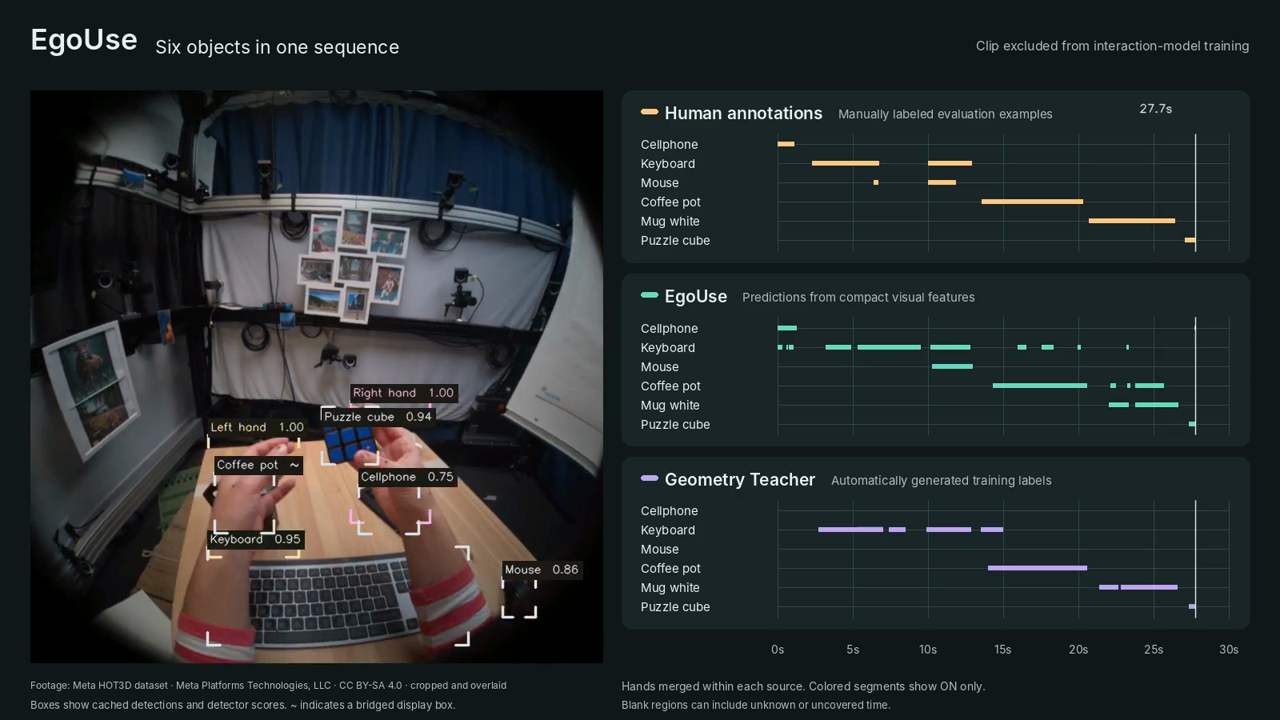
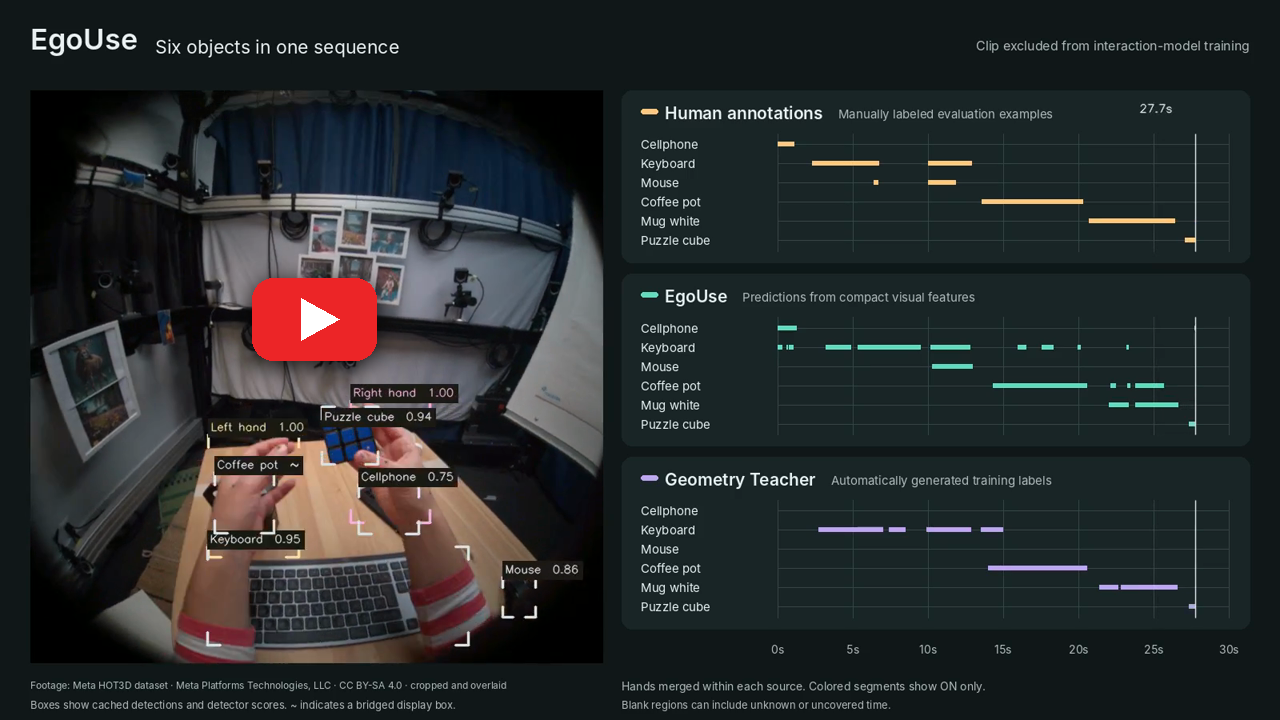
Refine README diagrams and demo thumbnail layout

Changed region(s): [[0.1875, 0.3667, 0.3125, 0.5194]]

diff --git a/README.md b/README.md
@@ -4,6 +4,8 @@
 
 EgoUse explores a lightweight approach to interaction recognition for future glasses and edge devices. Instead of applying another large visual network to video, it learns from **compact hand–object features using a small GRU**.
 
+**[Watch the EgoUse demo on YouTube](https://youtu.be/pmYqrhCUR8c)**
+
 [![Watch the EgoUse demo](docs/assets/demo_youtube.png)](https://youtu.be/pmYqrhCUR8c)
 
 ## Approach
@@ -21,20 +23,20 @@ The target is **holding, manipulation and strong physical contact**, excluding b
 
 ```mermaid
 %%{init: {"flowchart": {"nodeSpacing": 16, "rankSpacing": 22}, "themeVariables": {"fontSize": "13px"}}}%%
-flowchart TB
-    V["RGB video"] --> H["100DOH hand detector"]
-    V --> ODET["Fine-tuned YOLO26m object detector"]
-    H --> F["18 features per hand–object pair"]
+flowchart LR
+    V["RGB video"] --> H["100DOH<br/>Hand detector"]
+    V --> ODET["Fine-tuned YOLO26m<br/>Object detector"]
+    H --> F["18 features per<br/>hand–object pair"]
     ODET --> F
     F --> G["Shared pairwise GRU"]
-    G --> O["Probabilities + hysteresis"] --> T["Interaction timelines"]
+    G --> O["Probabilities<br/>+ hysteresis"] --> T["Interaction<br/>timelines"]
 
     subgraph TRAIN["Training only"]
-        P["HOT3D poses"] --> A["Geometry Teacher labels"]
-        A --> L["Masked binary cross-entropy"]
+        P["HOT3D poses"] --> A["Geometry Teacher<br/>labels"]
+        A --> L["Masked binary<br/>cross-entropy loss"]
     end
 
-    G -. Logits .-> L
+    G -. Predicted logits .-> L
     L -. Updates GRU weights .-> G
 ```
 
@@ -75,11 +77,11 @@ One shared network processes each hand–object pair, learning how spatial and m
 ```mermaid
 %%{init: {"flowchart": {"nodeSpacing": 12, "rankSpacing": 16}, "themeVariables": {"fontSize": "13px"}}}%%
 flowchart LR
-    F["Pair sequence<br/>18 features / frame"]
-    E["Linear + ReLU<br/>18 → 16"]
-    G["2-layer causal GRU<br/>128 units / layer"]
-    H["Linear head<br/>128 → 1 logit"]
-    P["Sigmoid<br/>Interaction probability"]
+    F["Pair sequence<br/>One hand–object pair<br/>18 features per frame"]
+    E["Linear + ReLU<br/>Project each frame<br/>18 → 16 features"]
+    G["2-layer causal GRU<br/>128 hidden units per layer<br/>Carries pair history"]
+    H["Linear head<br/>128 → 1 logit<br/>One score per frame"]
+    P["Sigmoid<br/>Converts the logit to<br/>interaction probability"]
 
     F --> E --> G --> H --> P
 ```
